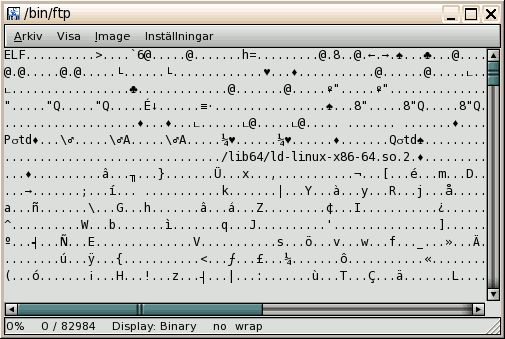
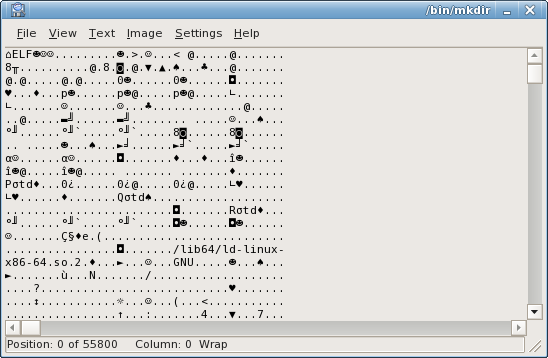
Updated internal viewer screenshots and documentation

diff --git a/doc.html b/doc.html
@@ -187,10 +187,9 @@ of choise for further details.</p>
 <h3>Main features include:</h3>
 
 <ul>
-<li>Two input modes:
+<li>Several input modes, including
    <ul>
-      <li>ASCII, with several codepage encodings (including 
-      <a href="http://en.wikipedia.org/wiki/CP437" name="Codepage 437">Codepage 437</a>)</li>
+      <li>ASCII</li>
       <li>UTF-8</li>
    </ul>
 </li>
@@ -199,30 +198,24 @@ of choise for further details.</p>
 	<ul>
 		<li>Text display, with or without line wrapping.</li>
 		<li>Binary file display.</li>
-		<li>Hex dump.</li>
+		<li>Hexadecimal.</li>
 		<li>Image rendering.</li>
 	</ul>
 </li>
+<li>Text Marking, Copying to Clipboard</li>
+<li>Text Search, Hex Search</li>
 <li>Fast file loading (using MMAP or incremented loading when possible, just like Midnight Commander's internal viewer</li>
-<li>Planned Features:
-	<ul>
-	<li>Text, Hex Search</li>
-	<li>Text Marking, Copying to Clipboard</li>
-	<li>More input modes: unicode, html.</li>
-	<li>and more...</li>
-	</ul>
-</li>
 </ul>
 
 
 <h3>Internal Viewer's Window</h3>
-<img src="img/gnome-cmd-iv-text-fixed.png" width="505" height="339" alt="Text mode with Fixed width font">
+<img src="img/gnome-cmd-iv-text.png" width="525" height="358" alt="Text mode with Fixed width font">
 <ul>
 	<li>The current file name is displayed in the window's title.</li>
-	<li>The file size (in bytes), and the current offset are displayed on the status bar</li>
-	<li>The current offset (both as bytes and as percentage) is relative to the first byte displayed on the first line</li>
+	<li>The file size (in bytes), and the current offset are displayed on the status bar.</li>
+	<li>The current offset in bytes is relative to the first byte displayed on the first line.</li>
 	<li>Use arrow keys to navigate the file.</li>
-	<li>Home, End, Page-Up, Page-Down and Mouse Wheel scrolling are also supported</li>
+	<li>Home, End, Page-Up, Page-Down and Mouse Wheel scrolling are supported.</li>
 </ul>
 
 
@@ -239,37 +232,32 @@ of choise for further details.</p>
 	<td>Close the internal viewer window</td>
 </tr>
 <tr>
-	<td>View|Wrap Lines</td>
+	<td>Text|Wrap Lines</td>
 	<td>W</td>
 	<td>Toggles line wrapping.<br>(Applicable only in text display modes)</td>
 </tr>
-<tr><td>Input Modes:</td></tr>
+<tr><td><b>Input Modes:</b></td></tr>
 <tr>
-	<td>View|ASCII</td>
-	<td>A</td>
-	<td>Sets ASCII input mode.<br>When in ASCII mode, you can also set the desired character encoding from the "View|Character Encoding" submenu.</td>
-</tr>
-<tr>
-	<td>View|UTF-8</td>
-	<td>U</td>
-	<td>Sets UTF-8 input mode.</td>
-</tr>
-<tr>
-	<td>View|Character Encodings</td>
+	<td>Text|Encoding</td>
 	<td></td>
 	<td>This menu contains all possible character encodings.<br>(If you need an additional encoding, send an email to the developers).</td>
 </tr>
 <tr>
-	<td>View|Character Encodings|ASCII</td>
+	<td>Text|Encoding|ASCII</td>
 	<td>A</td>
-	<td>Presing "A" will quickly set ASCII input mode, without any further character encodings.</td>
+	<td>Sets ASCII input mode.</td>
 </tr>
 <tr>
-	<td>View|Character Encodings|Terminal Font</td>
-	<td>Q</td>
-	<td>Presing "Q" will quickly set ASCII input mode, with Codepage 437 encoding.<br>(Good for binary and hex mode viewing)</td>
+	<td>Text|Encoding|UTF-8</td>
+	<td>U</td>
+	<td>Sets UTF-8 input mode.</td>
 </tr>
-<tr><td>Display modes:</td></tr>
+<tr>
+	<td>Text|Encoding|CP437</td>
+	<td>Q</td>
+	<td>Presing "Q" will quickly set ASCII input mode, with Codepage 437 encoding.<br>(Good for binary and hex mode viewing).</td>
+</tr>
+<tr><td><b>Display modes:</b></td></tr>
 <tr>
 	<td>View|Text</td>
 	<td>1</td>
@@ -290,10 +278,10 @@ of choise for further details.</p>
 	<td>4</td>
 	<td>Will try to load the file as an image.<br>Loading is done using GDK, so every GDK-supported format should work.</td>
 </tr>
-<tr><td>Font Size:</td></tr>
+<tr><td><b>Font Size:</b></td></tr>
 <tr>
 	<td>View|Larger Font</td>
-	<td>=</td>
+	<td>= or +</td>
 	<td>Increment the font size.</td>
 </tr>
 <tr>
@@ -301,7 +289,7 @@ of choise for further details.</p>
 	<td>-</td>
 	<td>Decrement the font size.</td>
 </tr>
-<tr><td>Image Manipulation:</td></tr>
+<tr><td><b>Image Manipulation:</b></td></tr>
 <tr>
 	<td>Image|Rotate Clockwise</td>
 	<td>CTRL+R</td>
@@ -327,7 +315,7 @@ of choise for further details.</p>
 	<td></td>
 	<td>Horizontally Flip the image.<br>(Applicable only in IMAGE display mode)</td>
 </tr>
-<tr><td>Settings:</td></tr>
+<tr><td><b>Settings:</b></td></tr>
 <tr>
 	<td>Settings|Binary Mode</td>
 	<td></td>
@@ -348,43 +336,33 @@ of choise for further details.</p>
 
 
 <h3><a name="input">Input Modes</a></h3>
-<p>Here's an example of using different input modes.<br>
-The displayed file is a UTF-8 file (this is actually the Hungarian translation file from the gnome-commander project).</p>
+<p>Here's an example of using different input modes. The displayed file is a UTF-8 file (this is actually the Hungarian translation file from the gnome-commander project).</p>
 
 <p>UTF-8 is an encoding scheme used to encode Unicode characters into a multibyte string. A single UTF-8 character 
 can be composed from up to 6 bytes.</p>
 
-<p>In ASCII mode (without any further chacarater encodings, press "CTRL+A" to set it), only bytes with ASCII value above 
+<p>In ASCII mode (without any further chacarater encodings, press "A" to set it), only bytes with ASCII value above 
 0x20 and below 0x7F are displayed. All other characters are shown as dots:</p>
-<img src="img/gnome-cmd-iv-text-ascii.png" width="507" height="354" alt="Text mode with ASCII encoding">
+<img src="img/gnome-cmd-iv-text-ascii.png" width="525" height="358" alt="Text mode with ASCII encoding">
 
-<p>In ASCII mode with Codepage 437 encoding (press "CTRL+Q" to set it), extended ASCII characters (above ASCII 0x7E) 
-are displayed.</p>
-<img src="img/gnome-cmd-iv-text-cp437.png" width="505" height="353" alt="Text mode with Codepage 437 encoding">
+<p>In ASCII mode with Codepage 437 encoding (press "Q" to set it), extended ASCII characters (above ASCII 0x7E) 
+are displayed:</p>
+<img src="img/gnome-cmd-iv-text-cp437.png" width="525" height="358" alt="Text mode with Codepage 437 encoding">
 
-<p>In UTF-8 Input mode (Press "U" to set it), the correct characters are displayed.</p>
-<img src="img/gnome-cmd-iv-text-utf8.png" width="505" height="353" alt="Text mode with UTF-8 encoding">
+<p>In UTF-8 Input mode (Press "U" to set it), the correct characters are displayed:</p>
+<img src="img/gnome-cmd-iv-text-utf8.png" width="525" height="358" alt="Text mode with UTF-8 encoding">
 
-<h3><a name="txt">Text Display Mode</a></h3>
-<p>In Text mode, you can set the input mode to either ASCII or UTF-8.<br>
-You can set line wrapping by pressing "W".<br>
-<br>
-Text with Fixed width font display (Press "1" to set it) is suitible for viewing source files:</p>
-<img src="img/gnome-cmd-iv-text-fixed.png" width="505" height="339" alt="Text mode with Fixed width font">
-
-<p>Text with Variable width font display (Press "2" to set it) is suitible for viewing text files:</p>
-<img src="img/gnome-cmd-iv-text-variable.png" width="505" height="339" alt="Text mode with Variable width font">
+<p>Other input modes such as cyrillic or greek can be selected in the "Text" menu, section "Encoding".</p>
 
 <h3><a name="bin">Binary Display Mode</a></h3>
-<p>Binary display mode is suitible for quickly viewing binary files (If that sort of thing is you bag...).
-In Binary display mode, you can only use ASCII input mode, with or without additional character encodings 
-(but not UTF-8). Number of bytes displayed on each line can be changed in the "Settings" menu.</p>
+<p>Binary display mode is suitible for quickly viewing binary files. In Binary display mode, the number of
+  bytes displayed on each line can be changed in the "Settings" menu.</p>
 
 <p>Viewing a file in Binary display mode, in ASCII input mode:</p>
-<img src="img/gnome-cmd-iv-bin-ascii.png" width="505" height="339" alt="Binary mode with ASCII encoding">
+<img src="img/gnome-cmd-iv-bin-ascii.png" width="525" height="358" alt="Binary mode with ASCII encoding">
 
 <p>The same file as above, with Codepage 437 encoding:</p>
-<img src="img/gnome-cmd-iv-bin-cp437.png" width="505" height="339" alt="Binary mode with Codepage 437 encoding">
+<img src="img/gnome-cmd-iv-bin-cp437.png" width="525" height="358" alt="Binary mode with Codepage 437 encoding">
 
 <h3><a name="hex">Hex dump Display Mode</a></h3>
 <p>This is a simple Hex dump display mode (similar to using <code>od -t x1</code>). In Hex dump display mode, 
@@ -395,17 +373,17 @@ each byte corresponds to a different ASCII value.</p>
 
 
 <p>ASCII Encoding:</p>
-<img src="img/gnome-cmd-iv-hex-ascii.png" width="505" height="339" alt="Hex mode with ASCII encoding">
+<img src="img/gnome-cmd-iv-hex-ascii.png" width="550" height="358" alt="Hex mode with ASCII encoding">
 
 <p>Codepage 437 Encoding:</p>
-<img src="img/gnome-cmd-iv-hex-cp437.png" width="505" height="339" alt="Hex mode with Codepage 437 encoding">
+<img src="img/gnome-cmd-iv-hex-cp437.png" width="550" height="358" alt="Hex mode with Codepage 437 encoding">
 
 <p>Cyrillic Encoding:</p>
-<img src="img/gnome-cmd-iv-hex-cyrillic.png" width="505" height="339" alt="Hex mode with Cyrillic encoding">
+<img src="img/gnome-cmd-iv-hex-cyrillic.png" width="550" height="358" alt="Hex mode with Cyrillic encoding">
 
 <h3><a name="img">Image Display Mode</a></h3>
 <p>The viewer starts with the image fitted to the viewer window size = larger window = larger view</p>
-<img src="img/gnome-cmd-iv-image.jpg" width="506" height="341" alt="Image mode">
+<img src="img/gnome-cmd-iv-image.jpg" width="525" height="358" alt="Image mode">
 
 <hr>
 <p class="cntr"><a href="#topp">To top of page</a></p>
